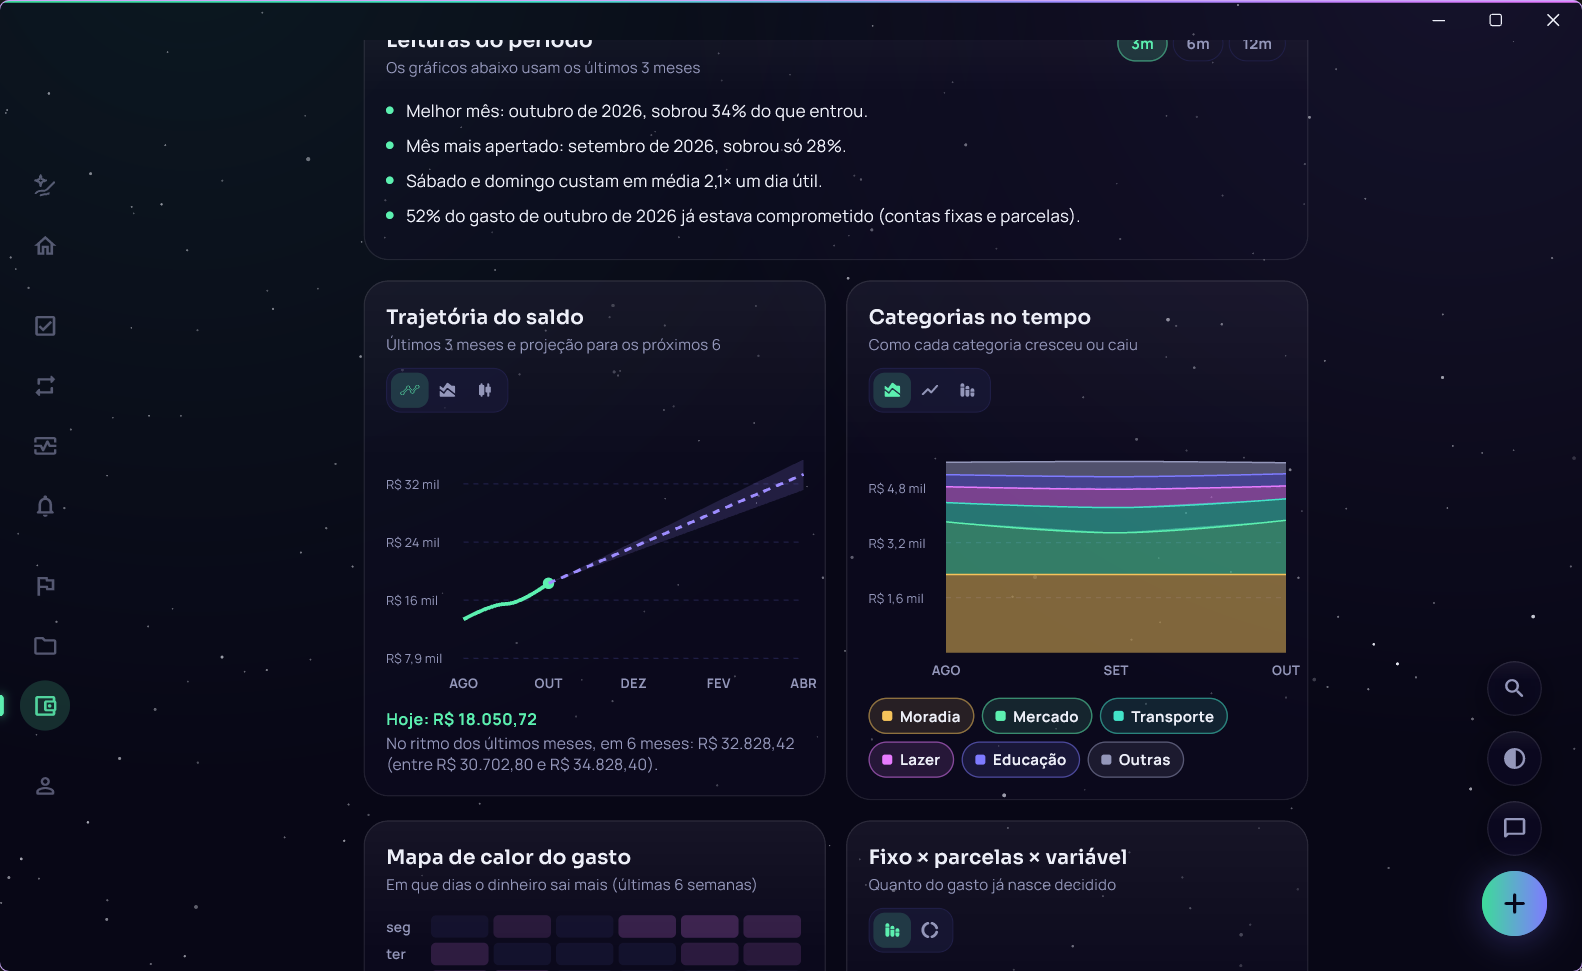
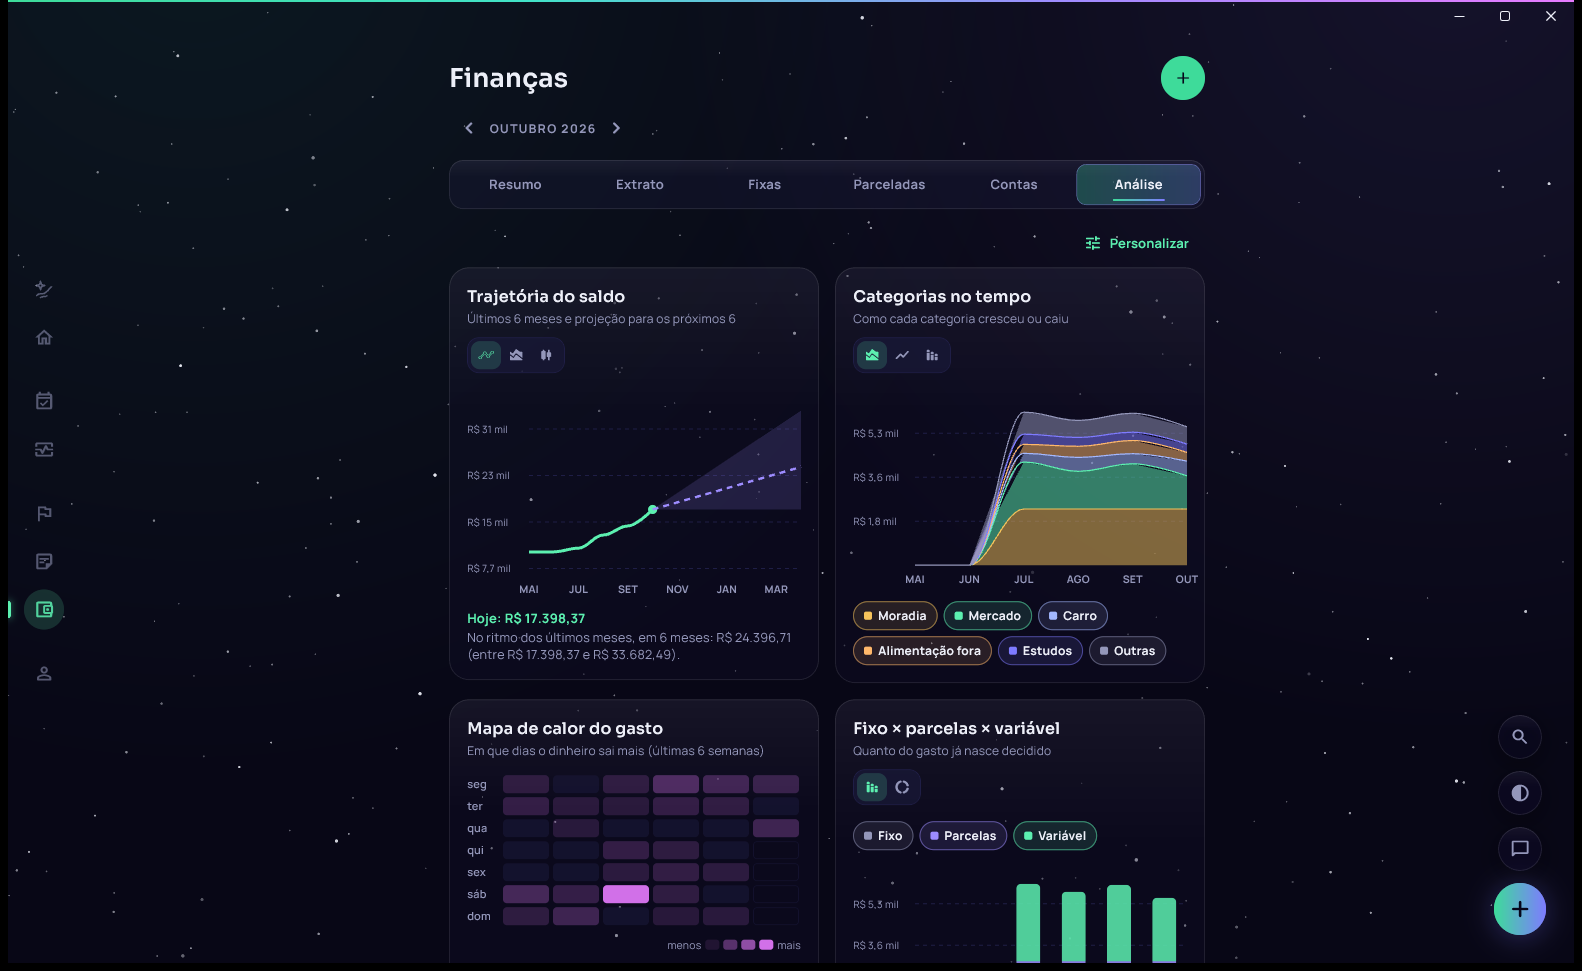
README: funcionalidades até a 1.14 e capturas novas
Funcionalidades com Rotina e compromissos, calendário, Objetivos, Anotações,
categorias novas de Finanças, voz e resposta falada. Galeria refeita com dados
de demonstração (Rotina, Objetivos, Anotações, Visão em blocos, Finanças,
tema claro e celular); saem as capturas de Metas, Projetos e Hábitos.

A demonstração ganhou compromissos, anotações e as categorias atuais, e lê um
arquivo opcional com a arrumação do painel de Finanças para as fotos.

diff --git a/tool/capturas/demonstracao.dart b/tool/capturas/demonstracao.dart
@@ -2,13 +2,14 @@ import 'dart:math';
 
 import 'package:aurora/core/relogio.dart';
 import 'package:aurora/data/alimentacao_repo.dart';
+import 'package:aurora/data/anotacoes_repo.dart';
 import 'package:aurora/data/banco.dart';
 import 'package:aurora/data/exemplo.dart';
 import 'package:aurora/data/saude_repo.dart';
 import 'package:drift/drift.dart';
 
 /// Dados de demonstração para as capturas do README: três meses de finanças,
-/// hábitos, tarefas, treinos, medidas e uma conversa com a Aurora. Só roda num
+/// hábitos, tarefas, compromissos, anotações, treinos, medidas e uma conversa com a Aurora. Só roda num
 /// banco separado (tool/capturas/main.dart); o app nunca chama isto.
 Future<void> semearDemonstracao(BancoAurora db) async {
   if (await db.preferencia('demonstracao') != null) return;
@@ -79,26 +80,91 @@ Future<void> semearDemonstracao(BancoAurora db) async {
 
     // Tarefas de hoje e dos próximos dias
     await db.batch((b) => b.insertAll(db.tarefas, [
-          TarefasCompanion.insert(
-              titulo: 'Reunião de planejamento',
-              prazo: Value(as(0, 10)),
-              prazoTemHora: const Value(true),
-              prioridade: const Value(Prioridade.alta)),
-          TarefasCompanion.insert(
-              titulo: 'Pagar a fatura do cartão', prazo: Value(as(-1, 0)), prioridade: const Value(Prioridade.alta)),
+          TarefasCompanion.insert(titulo: 'Pagar a fatura do cartão', prazo: Value(as(-1, 0))),
           TarefasCompanion.insert(
               titulo: 'Estudar Flutter: animações', prazo: Value(as(0, 20)), prazoTemHora: const Value(true)),
+          TarefasCompanion.insert(titulo: 'Enviar o relatório do mês', prazo: Value(as(0, 0))),
           TarefasCompanion.insert(
               titulo: 'Corrida de 7 km no parque', prazo: Value(as(1, 7)), objetivoId: Value(corrida.id)),
-          TarefasCompanion.insert(
-              titulo: 'Comprar presente de aniversário',
-              prazo: Value(as(3, 0)),
-              prioridade: const Value(Prioridade.baixa)),
-          TarefasCompanion.insert(
-              titulo: 'Planejar a semana',
-              prazo: Value(as((7 - hoje.weekday) % 7, 20)),
-              prazoTemHora: const Value(true),
-              regraRepeticao: const Value('FREQ=WEEKLY;BYDAY=SU')),
+          TarefasCompanion.insert(titulo: 'Comprar presente de aniversário', prazo: Value(as(3, 0))),
+        ]));
+
+    // Compromissos da semana (com hora, dia inteiro e repetição)
+    final quinta = (4 - hoje.weekday) % 7;
+    await db.batch((b) => b.insertAll(db.compromissos, [
+          CompromissosCompanion.insert(
+              titulo: 'Reunião de planejamento',
+              inicio: as(0, 10),
+              fim: Value(as(0, 11)),
+              local: const Value('Sala 3'),
+              avisoAntesMin: const Value(15)),
+          CompromissosCompanion.insert(
+              titulo: 'Dentista',
+              inicio: as(0, 16, 30),
+              fim: Value(as(0, 17, 15)),
+              local: const Value('Clínica Sorriso'),
+              avisoAntesMin: const Value(60)),
+          CompromissosCompanion.insert(
+              titulo: 'Almoço com a equipe', inicio: as(1, 12, 30), fim: Value(as(1, 14)), local: const Value('Centro')),
+          CompromissosCompanion.insert(
+              titulo: 'Aula de inglês',
+              inicio: as(quinta, 19),
+              fim: Value(as(quinta, 20)),
+              regraRepeticao: const Value('FREQ=WEEKLY;BYDAY=TH'),
+              avisoAntesMin: const Value(30)),
+          CompromissosCompanion.insert(
+              titulo: 'Aniversário da Ana',
+              inicio: instanteLocal(dia(3)),
+              diaInteiro: const Value(true),
+              regraRepeticao: const Value('FREQ=YEARLY')),
+          CompromissosCompanion.insert(
+              titulo: 'Consulta de rotina', inicio: as(9, 9), fim: Value(as(9, 10)), local: const Value('Hospital')),
+        ]));
+
+    // Anotações: textos, listas com caixinhas, uma pasta e uma nota fixada
+    final ideias = await db.into(db.pastasNotas).insertReturning(PastasNotasCompanion.insert(nome: 'Ideias'));
+    await db.batch((b) => b.insertAll(db.notas, [
+          NotasCompanion.insert(
+              tipo: const Value(TipoNota.lista),
+              titulo: const Value('Lista do mercado'),
+              fixada: const Value(true),
+              itens: Value(gravarItens(const [
+                ItemLista('Café', feito: true),
+                ItemLista('Ovos', feito: true),
+                ItemLista('Banana'),
+                ItemLista('Aveia'),
+                ItemLista('Peito de frango'),
+              ]))),
+          NotasCompanion.insert(
+              titulo: const Value('Receita do bolo de cenoura'),
+              texto: const Value('3 cenouras médias, 3 ovos e 1 xícara de óleo no liquidificador. '
+                  'Misturar 2 xícaras de farinha e 1 de açúcar, e por último o fermento. Forno a 180 °C por 40 min.')),
+          NotasCompanion.insert(
+              pastaId: Value(ideias.id),
+              titulo: const Value('Viagem de fim de ano'),
+              texto: const Value('Serra ou praia? Ver passagens em novembro, '
+                  'reservar com cancelamento grátis e separar a reserva no orçamento.')),
+          NotasCompanion.insert(
+              tipo: const Value(TipoNota.lista),
+              pastaId: Value(ideias.id),
+              titulo: const Value('Livros para ler'),
+              itens: Value(gravarItens(const [
+                ItemLista('O Hobbit', feito: true),
+                ItemLista('Sapiens'),
+                ItemLista('Hábitos Atômicos'),
+              ]))),
+          NotasCompanion.insert(
+              titulo: const Value('Reunião de planejamento'),
+              texto: const Value('Prioridades do trimestre: lançar o portfólio, revisar o orçamento '
+                  'e marcar as férias. Próxima conversa na sexta.')),
+          NotasCompanion.insert(
+              tipo: const Value(TipoNota.lista),
+              titulo: const Value('Mala da viagem'),
+              itens: Value(gravarItens(const [
+                ItemLista('Carregador'),
+                ItemLista('Documentos', feito: true),
+                ItemLista('Remédios'),
+              ]))),
         ]));
     // Histórico de tarefas feitas (para a aba Análise)
     const feitas = [
@@ -152,7 +218,8 @@ Future<void> semearDemonstracao(BancoAurora db) async {
     // Lembretes
     await db.batch((b) => b.insertAll(db.lembretes, [
           LembretesCompanion.insert(
-              texto: 'Tomar vitamina D', quando: as(1, 8), regraRepeticao: const Value('FREQ=DAILY')),
+              texto: 'Tomar vitamina D', quando: as(0, 8), regraRepeticao: const Value('FREQ=DAILY')),
+          LembretesCompanion.insert(texto: 'Buscar a encomenda na portaria', quando: as(0, 18, 30)),
           LembretesCompanion.insert(
               texto: 'Revisar gastos da semana',
               quando: as((5 - hoje.weekday) % 7, 18),
@@ -193,20 +260,21 @@ Future<void> semearDemonstracao(BancoAurora db) async {
     await fixa('Salário', 680000, 5, 'Salário', tipo: TipoTransacao.entrada);
     await fixa('Aluguel', 185000, 10, 'Moradia');
     await fixa('Condomínio', 42000, 10, 'Moradia');
-    await fixa('Internet', 11990, 15, 'Serviços');
-    await fixa('Streaming', 5590, 20, 'Serviços');
-    await fixa('Academia', 11900, 8, 'Saúde');
-    await fixa('Curso de inglês', 29900, 12, 'Educação', parcelas: 12);
+    await fixa('Internet', 11990, 15, 'Assinaturas e planos');
+    await fixa('Streaming', 5590, 20, 'Assinaturas e planos');
+    await fixa('Academia', 11900, 8, 'Academia e suplementos');
+    await fixa('Curso de inglês', 29900, 12, 'Estudos', parcelas: 12);
 
     final variaveis = [
       ('Mercado', 'Mercado', 7, 18000, 46000),
       ('Feira', 'Mercado', 9, 4000, 9000),
       ('Uber', 'Transporte', 5, 1500, 4800),
-      ('Combustível', 'Transporte', 12, 15000, 24000),
-      ('Restaurante', 'Lazer', 8, 6000, 16000),
+      ('Combustível', 'Carro', 12, 15000, 24000),
+      ('Restaurante', 'Alimentação fora', 8, 6000, 16000),
       ('Cinema', 'Lazer', 20, 4000, 7000),
       ('Farmácia', 'Saúde', 18, 2500, 9000),
-      ('Livro', 'Educação', 25, 3500, 8000),
+      ('Livro', 'Estudos', 25, 3500, 8000),
+      ('Barbearia', 'Cuidados pessoais', 21, 4500, 6000),
     ];
     final primeiroDia = diasEntre(inicio, hoje);
     for (final (nome, categoria, cada, minimo, maximo) in variaveis) {

diff --git a/tool/capturas/main.dart b/tool/capturas/main.dart
@@ -1,3 +1,5 @@
+import 'dart:io';
+
 import 'package:aurora/app.dart';
 import 'package:aurora/core/efeitos.dart';
 import 'package:aurora/core/relogio.dart';
@@ -5,6 +7,7 @@ import 'package:aurora/data/banco.dart';
 import 'package:flutter/material.dart';
 import 'package:intl/date_symbol_data_local.dart';
 import 'package:intl/intl.dart';
+import 'package:path_provider/path_provider.dart';
 
 import 'demonstracao.dart';
 
@@ -24,6 +27,15 @@ Future<void> main() async {
 
   final db = BancoAurora();
   await semearDemonstracao(db);
+  // Painel de Finanças da foto (ex.: esconder os cartões de cima para os gráficos
+  // caberem na janela): `Documentos\aurora_capturas_painel.json`, no formato da
+  // preferência `financas_painel`. Sem o arquivo, volta ao painel padrão.
+  final painel = File('${(await getApplicationDocumentsDirectory()).path}/aurora_capturas_painel.json');
+  if (painel.existsSync()) {
+    await db.salvarPreferencia('financas_painel', painel.readAsStringSync());
+  } else {
+    await (db.delete(db.preferencias)..where((x) => x.chave.equals('financas_painel'))).go();
+  }
   final tema = await db.preferencia('tema');
   await Efeitos.iniciar(db);
   runApp(AuroraApp(db: db, escuro: ValueNotifier(tema != 'claro')));

diff --git a/README.md b/README.md
@@ -6,17 +6,17 @@
 
 **Sua rotina inteira num app só, com uma assistente de IA que entende o que você fala.**
 
-Tarefas · Hábitos · Treino · Alimentação · Finanças · Metas · Projetos · Lembretes
+Rotina · Hábitos · Treino · Alimentação · Finanças · Objetivos · Anotações · Lembretes
 
 ![Flutter](https://img.shields.io/badge/Flutter-3.47-02569B?logo=flutter&logoColor=white)
 ![Dart](https://img.shields.io/badge/Dart-3-0175C2?logo=dart&logoColor=white)
 ![Supabase](https://img.shields.io/badge/Supabase-Postgres%20%2B%20RLS-3FCF8E?logo=supabase&logoColor=white)
 ![TypeScript](https://img.shields.io/badge/Edge%20Functions-TypeScript-3178C6?logo=typescript&logoColor=white)
 ![Plataformas](https://img.shields.io/badge/Windows%20%C2%B7%20Android%20%C2%B7%20Web%20%28PWA%29-5CF0B0)
-![Testes](https://img.shields.io/badge/testes-263%20passando-42E3C8)
+![Testes](https://img.shields.io/badge/testes-304%20passando-42E3C8)
 ![Licença](https://img.shields.io/badge/licen%C3%A7a-PolyForm%20Noncommercial-9D8CFF)
 
-<img src="docs/imagens/visao.png" alt="Tela Visão do Aurora no Windows" width="900">
+<img src="docs/imagens/visao.png" alt="Tela Visão do Aurora no Windows, em blocos" width="900">
 
 </div>
 
@@ -38,8 +38,8 @@ Tarefas · Hábitos · Treino · Alimentação · Finanças · Metas · Projetos
 
 ## Sobre o projeto
 
-O Aurora junta numa tela só o que normalmente fica espalhado em vários apps: tarefas, gastos, treino, hábitos e
-metas. Por cima de tudo há uma assistente, a **Aurora**, que entende pedidos em linguagem natural: *"gastei 35 no mercado"*, *"me lembra de pagar a luz amanhã às 9"* ou
+O Aurora junta numa tela só o que normalmente fica espalhado em vários apps: tarefas, compromissos, hábitos,
+gastos, treino, objetivos e anotações. Por cima de tudo há uma assistente, a **Aurora**, que entende pedidos em linguagem natural: *"gastei 35 no mercado"*, *"me lembra de pagar a luz amanhã às 9"* ou
 *"como estão meus gastos este mês?"*.
 
 É um app completo, publicado e em uso: **um único código Flutter** roda no **Windows, no Android e na web (PWA, que também instala no iPhone)**; a versão nativa para iOS está nos planos. O app
@@ -48,10 +48,10 @@ automática e um servidor com autenticação, banco protegido por usuário e IA.
 
 | Versão atual | Código | Testes | Plataformas |
 | :---: | :---: | :---: | :---: |
-| **1.10.2** | ~54 mil linhas de Dart | **263** automatizados | Windows · Android · Web (PWA) |
+| **1.14.1** | ~61 mil linhas de Dart | **304** automatizados | Windows · Android · Web (PWA) |
 
-> **In English:** Aurora is a personal routine app (tasks, habits, workouts, nutrition, finances, goals, projects,
-> reminders) with an AI assistant that creates and edits your data through tool calls. One Flutter codebase for
+> **In English:** Aurora is a personal routine app (tasks, habits, appointments, workouts, nutrition, finances,
+> goals, notes, reminders) with an AI assistant that creates and edits your data through tool calls. One Flutter codebase for
 > Windows, Android and web (PWA, installable on iPhone); offline-first with SQLite (Drift), synced to Supabase (Postgres + Row Level
 > Security); AI served by a Deno Edge Function with an automatic model fallback chain. Source-available under
 > PolyForm Noncommercial 1.0.0.
@@ -62,42 +62,51 @@ automática e um servidor com autenticação, banco protegido por usuário e IA.
 
 <table>
   <tr>
-    <td width="50%"><img src="docs/imagens/assistente.png" alt="Assistente"><br><b>Assistente</b>: pedidos em linguagem natural viram lançamentos, lembretes e respostas com os seus dados.</td>
-    <td width="50%"><img src="docs/imagens/financas-fluxo.png" alt="Fluxo do dinheiro"><br><b>Fluxo do dinheiro</b>: diagrama de Sankey de onde o dinheiro veio e para onde foi.</td>
+    <td width="50%"><img src="docs/imagens/rotina-hoje.png" alt="Rotina, aba Hoje"><br><b>Rotina › Hoje</b>: compromissos, tarefas, hábitos e lembretes do dia em quatro colunas, cada tipo com a sua cor.</td>
+    <td width="50%"><img src="docs/imagens/rotina-calendario.png" alt="Calendário da Rotina"><br><b>Calendário</b>: mês (ou semana em grade de horas) com o painel do dia ao lado; filtros por tipo.</td>
   </tr>
   <tr>
-    <td><img src="docs/imagens/financas-categorias.png" alt="Despesas por categoria"><br><b>Despesas e gasto por dia</b>: cada gráfico troca de tipo (rosca, pizza, barras, blocos, radar).</td>
-    <td><img src="docs/imagens/financas-analise.png" alt="Análise financeira"><br><b>Análise</b>: trajetória do saldo com projeção, categorias no tempo e leituras automáticas.</td>
+    <td><img src="docs/imagens/objetivos.png" alt="Objetivos"><br><b>Objetivos</b>: metas com número (R$, km, livros) ou com etapas, ritmo ideal até a data e estado de cada uma.</td>
+    <td><img src="docs/imagens/objetivos-linha.png" alt="Linha do tempo dos objetivos"><br><b>Linha do tempo</b>: todos os objetivos num Gantt, com o que já foi feito e a linha de hoje.</td>
   </tr>
   <tr>
-    <td><img src="docs/imagens/habitos-analise.png" alt="Análise de hábitos"><br><b>Hábitos</b>: constância dos últimos 30 dias, sequências e recordes.</td>
+    <td><img src="docs/imagens/anotacoes.png" alt="Anotações"><br><b>Anotações</b>: mural de notas, listas com caixinhas, fotos e áudios transcritos, com pastas e notas fixadas.</td>
+    <td><img src="docs/imagens/assistente.png" alt="Assistente"><br><b>Assistente</b>: pedidos em linguagem natural viram lançamentos, lembretes e respostas com os seus dados.</td>
+  </tr>
+  <tr>
+    <td><img src="docs/imagens/financas-fluxo.png" alt="Fluxo do dinheiro"><br><b>Fluxo do dinheiro</b>: diagrama de Sankey de onde o dinheiro veio e para onde foi.</td>
+    <td><img src="docs/imagens/financas-categorias.png" alt="Despesas por categoria"><br><b>Despesas e gasto por dia</b>: 25 categorias com ícone e cor; cada gráfico troca de tipo e pode somar por grupo.</td>
+  </tr>
+  <tr>
+    <td><img src="docs/imagens/financas-analise.png" alt="Análise financeira"><br><b>Análise</b>: trajetória do saldo com projeção, categorias no tempo, mapa de calor e fixo × parcelas × variável.</td>
+    <td><img src="docs/imagens/rotina-analise.png" alt="Análise da Rotina"><br><b>Análise da Rotina</b>: tarefas concluídas por dia, cumprimento de prazo e constância dos hábitos.</td>
+  </tr>
+  <tr>
     <td><img src="docs/imagens/saude-medidas.png" alt="Medidas"><br><b>Saúde</b>: ficha de treino com carga sugerida, medidas, fotos de evolução e dieta.</td>
-  </tr>
-  <tr>
-    <td><img src="docs/imagens/projetos.png" alt="Projetos"><br><b>Projetos</b>: linha do tempo e etapas que também são tarefas.</td>
     <td><img src="docs/imagens/tema-claro.png" alt="Tema claro"><br><b>Tema claro</b>: a mesma paleta de aurora boreal, em versão diurna.</td>
   </tr>
 </table>
 
 <div align="center">
   <img src="docs/imagens/celular.png" alt="Aurora no celular" width="900"><br>
-  <sub><b>No celular</b>: barra inferior, cabeçalho com busca e assistente, e as mesmas telas adaptadas.</sub>
+  <sub><b>No celular</b>: barra flutuante de vidro só com ícones (duas páginas), a orbe que abre a assistente e as mesmas telas adaptadas.</sub>
 </div>
 
 ## Funcionalidades
 
 | Área | O que faz |
 | --- | --- |
-| 🌌 **Visão** | O dia em cinco blocos: em foco agora, linha do dia, semana, painel das áreas e insights. |
-| ✅ **Tarefas** | Prioridades, prazos com hora, recorrência, calendário e análise de produtividade. |
-| 🔁 **Hábitos** | Marcar, por duração ou por quantidade; dias da semana, sequências e constância. |
+| 🌌 **Visão** | O dia em blocos: **em foco** com o anel do dia e a fila do que vem depois, **a seguir** com a hora do próximo item, **hoje em números** em anéis, **linha do dia**, **semana** com leituras automáticas e o painel das áreas. Busca em tudo no cabeçalho (Ctrl+K). |
+| 📅 **Rotina** | Tarefas, hábitos, lembretes e **compromissos** numa área só, com as abas Hoje, Calendário, Hábitos, Automações e Análise. Compromisso tem início e fim (ou dia inteiro), local, repetição (até "todo ano") e aviso antes. Um formulário único cria qualquer tipo, e trocar o tipo ao editar converte o item (com "Desfazer"). |
+| 🗓 **Calendário** | Visão de mês (com os itens dentro do dia ou em pontinhos no celular) e de semana em grade de horas, painel do dia ao lado e filtros por tipo. |
+| 🔁 **Hábitos** | Marcar, por duração ou por quantidade; dias da semana, sequências, recordes e constância. Tarefas repetidas antigas viram hábitos sozinhas, com o histórico. |
+| 🎯 **Objetivos** | Metas e projetos juntos: progresso por número (R$, kg, km, livros ou unidade livre) ou por **etapas que viram tarefas**. Mostra o ritmo por semana até a data e o estado (em dia, em risco, parada, pausada, concluída, arquivada), com lista, filtros e **linha do tempo**. |
+| 📝 **Anotações** | Mural em colunas com notas de texto, **listas com caixinhas**, fotos e **áudios gravados no app com transcrição**. Pastas, notas fixadas, busca nas notas e nas transcrições, painel ao lado no computador e "Desfazer" ao apagar. Funciona também na web. |
+| 💰 **Finanças** | Lançamentos, contas fixas e parceladas e várias contas. **25 categorias em 8 grupos** (com Investimentos, Dívidas e juros, Cuidados pessoais e Serviços); a categoria é sugerida enquanto você digita a descrição, os chips mostram as mais usadas, e "Revisar" tira os lançamentos de "Outros" com um toque. Painéis de gráficos personalizáveis: fluxo do dinheiro (Sankey), categorias (por categoria ou por grupo), gasto por dia, fluxo de caixa, trajetória com projeção, mapa de calor e mais. |
 | 💪 **Saúde** | Ficha de treino com 470 exercícios animados, carga sugerida, medidas, fotos de evolução e dieta com a tabela TACO. |
-| 💰 **Finanças** | Lançamentos, contas fixas e parceladas, várias contas e 8 gráficos personalizáveis. |
-| 🎯 **Metas e projetos** | Progresso, ritmo necessário até a data e etapas ligadas a tarefas. |
-| 🔔 **Lembretes** | Avisos locais, Web Push no PWA e despertador de tela cheia no Android. |
-| ✨ **Assistente** | Texto e voz; cria, edita e exclui dados com confirmação e "Desfazer"; sem internet, comandos rápidos por regras. |
-| 🔎 **Extras** | Busca global (Ctrl+K), atalhos flutuantes, bloqueio por PIN ou biometria, tema escuro e claro, e datas e avisos sempre no fuso de onde você está. |
-
+| 🔔 **Lembretes** | Avisos locais, Web Push no PWA e despertador de tela cheia no Android, que toca mesmo no silencioso. |
+| ✨ **Assistente** | Texto e **voz** (microfone no campo, transcrição na nuvem) e **resposta falada** com a voz do próprio aparelho (só quando você falou, sempre ou nunca). Cria, edita e exclui lançamentos, tarefas, lembretes, compromissos e treinos com confirmação e "Desfazer"; sem internet, comandos rápidos por regras. |
+| 🔎 **Extras** | Busca global (Ctrl+K), atalhos flutuantes com captura rápida e mini chat, bloqueio por PIN ou biometria, tema escuro e claro, efeitos visuais leves para aparelhos mais fracos, fotos só no aparelho ou na nuvem (privadas, comprimidas e sem metadados), e datas e avisos sempre no fuso de onde você está. |
 ## Arquitetura
 
 ```mermaid
@@ -176,15 +185,15 @@ SDK, implementado em Dart.
 
 ## Qualidade
 
-- **263 testes automatizados** (widgets e regras de negócio): recorrência, finanças, sincronização, assistente,
-  voz, gráficos, busca e mais.
+- **304 testes automatizados** (widgets e regras de negócio): recorrência, rotina e compromissos, objetivos,
+  anotações, finanças e categorias, sincronização, assistente, voz, gráficos, busca e mais.
 - `flutter analyze` sem nenhum aviso.
 - Migrações do servidor versionadas em [`supabase/migrations`](supabase/migrations), testadas num banco local antes
   de ir para produção.
 - Backup semanal automático do banco do servidor.
 
 ```bash
-flutter test      # roda os 263 testes
+flutter test      # roda os 304 testes
 flutter analyze   # análise estática
 ```
 
